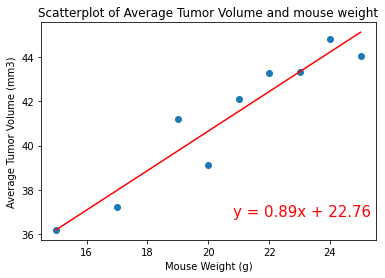
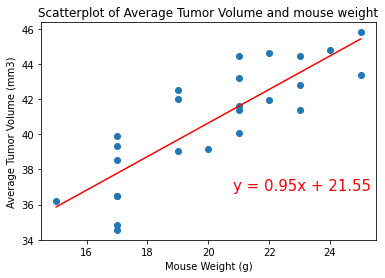
final update

diff --git a/README.md b/README.md
@@ -10,10 +10,11 @@
 
 ![Total timepoints by drugs regimen](/Images/Total%20timepoints%20by%20drugs%20regimen.png)
 
-3. The linear regression equation of
-       i.   Average Tumor Volume (mm3) = 0.89 x (Mouse Weight (g)) + 22.76   
-       ii.  r-squared of 0.9035    
-   suggest a close to perfect linear relationship between Tumor volume and Mouse Weight.
+3. Correlation coefficient and linear regression model for mouse weight and average tumor volume for the Capomulin regimen are;
+
+i.   Average Tumor Volume (mm3) = 0.95 x (Mouse Weight (g)) + 21.55   
+ii.  r-squared of 0.7089    
+r-squared at 0.7089 suggest moderate effective linear regression model.
 
 ![Scatterplot of ave Tumor Vol and Weight](\Images\Scatterplot%of%ave%Tumor%Vol%and%Weight.png)
 
